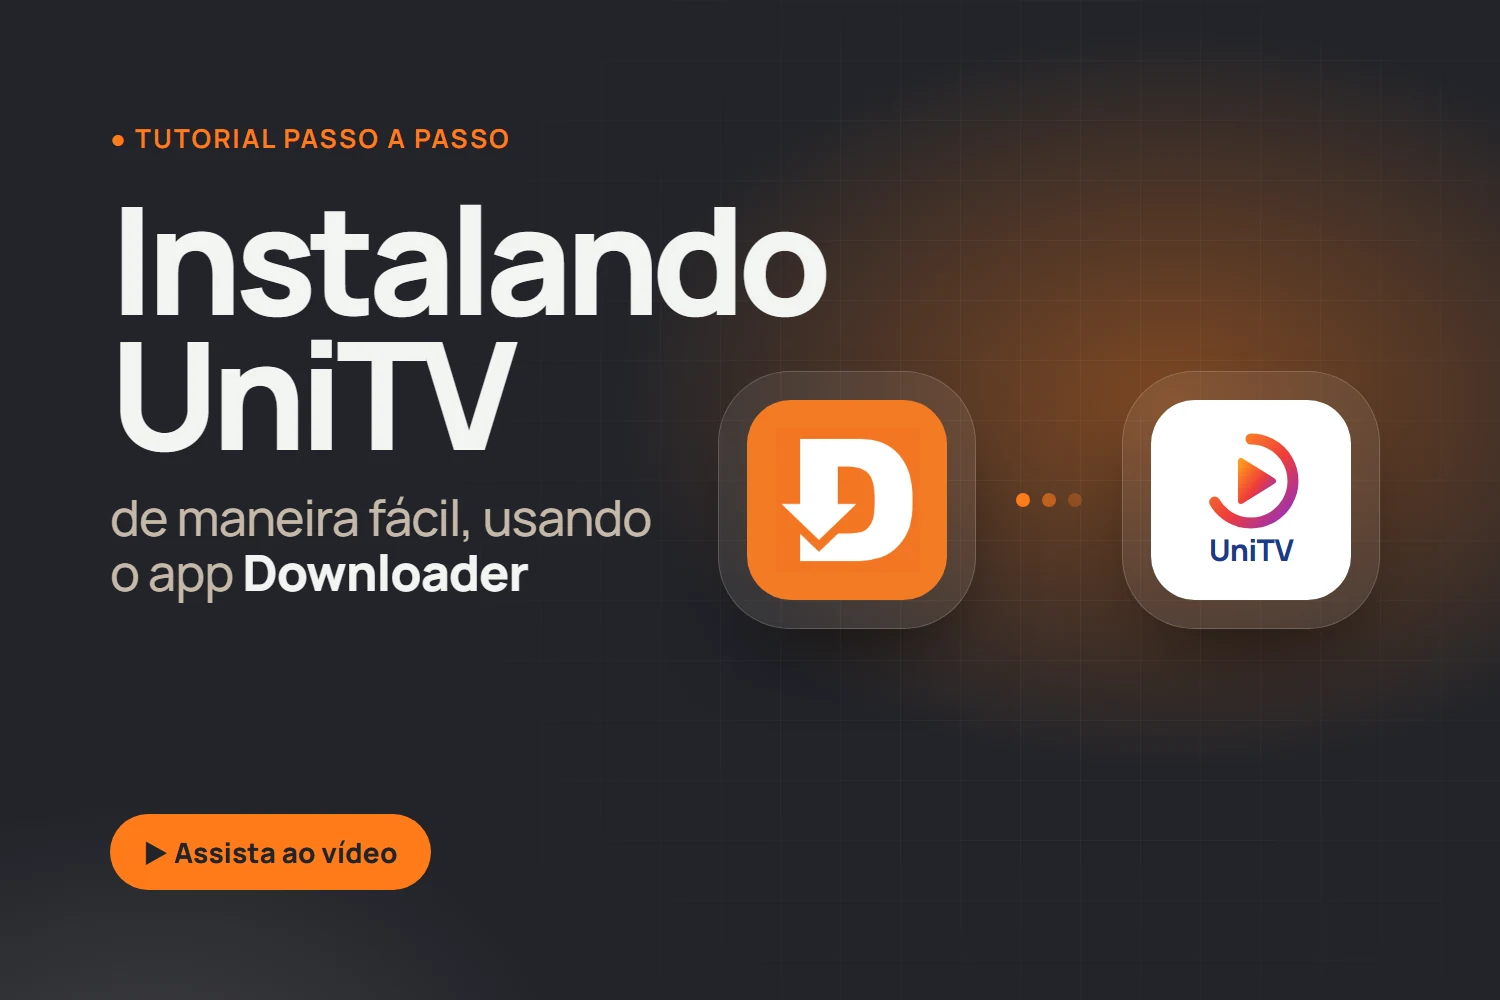
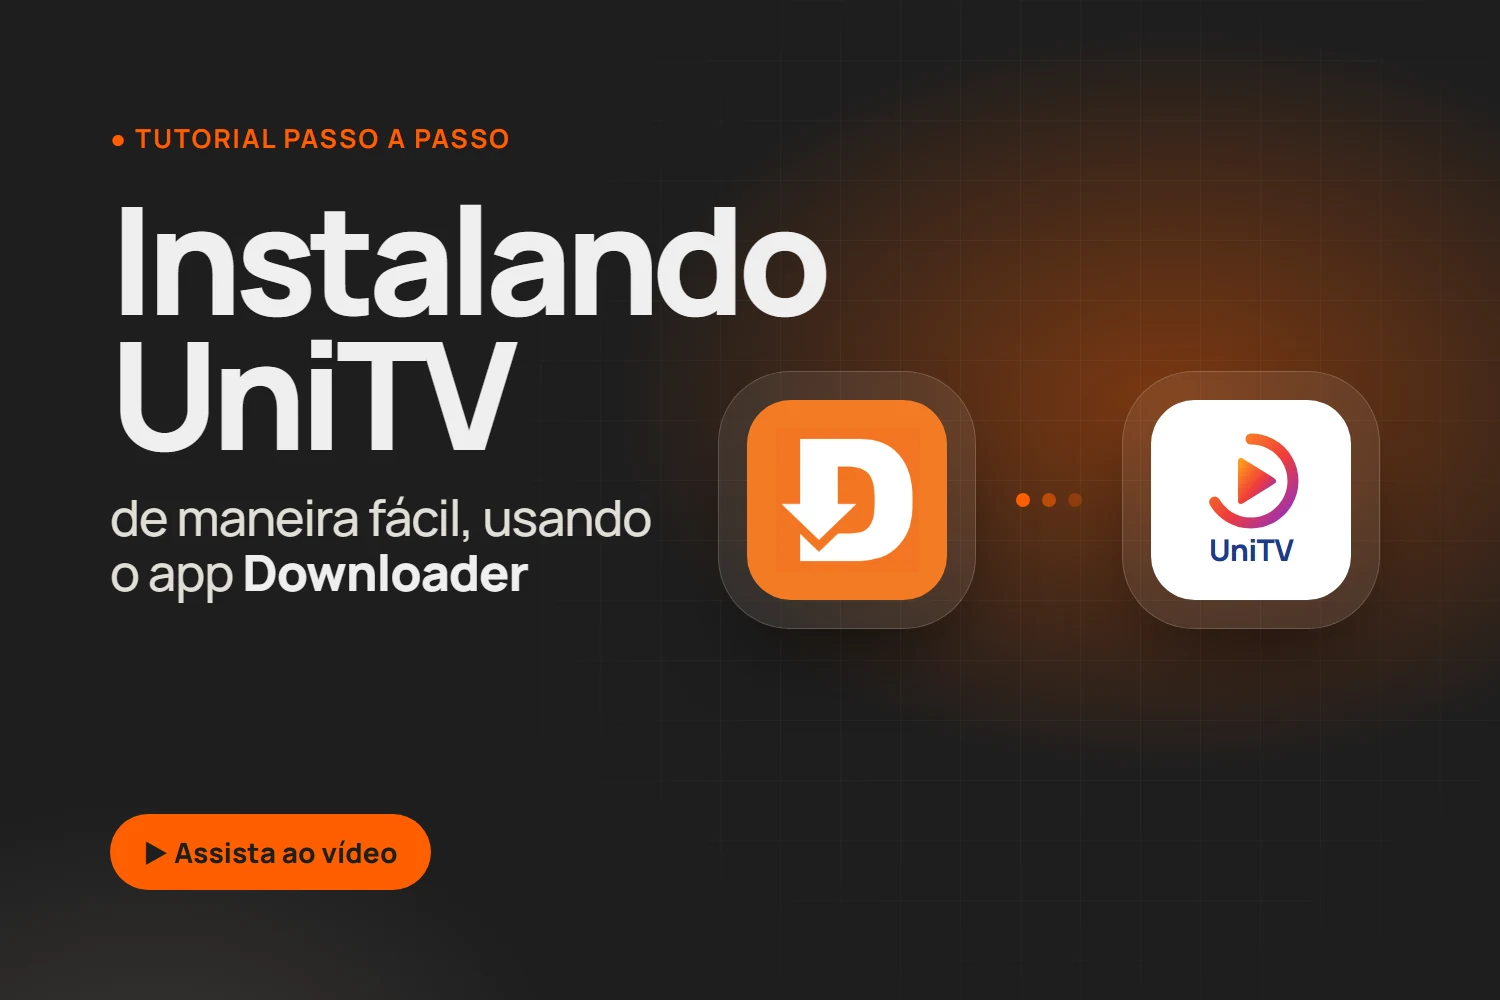
Nova paleta de cores

Changed region(s): [[0.0613, 0.496, 0.4293, 0.62], [0.0613, 0.806, 0.3067, 0.899], [0.092, 0.124, 0.3373, 0.155]]

diff --git a/app.jsx b/app.jsx
@@ -39,7 +39,7 @@ const NEWS = [
 const ARTICLES = [
   { title: 'Sinal e ruído no seu feed', img: 'assets/the-atacama-large-millimeter-array-alma-by.jpg', alt: 'Antenas do observatório ALMA sob o céu estrelado do Atacama', tag: 'Guia', tone: 'bg-ink text-paper', big: true },
   { title: 'Seis ferramentas leves', tag: 'Produtividade', tone: 'bg-sand text-ink' },
-  { title: 'Privacidade sem paranoia', tag: 'Segurança', tone: 'bg-[#e4dccf] text-ink' },
+  { title: 'Privacidade sem paranoia', tag: 'Segurança', tone: 'bg-white text-ink' },
 ];
 
 const SOCIALS = [['Facebook', 'f'], ['X', 'X'], ['Instagram', 'ig']];
@@ -130,13 +130,13 @@ function News() {
                 <button key={k} ref={el => (refs.current[k] = el)} role="tab" id={'tab-' + k}
                   aria-selected={on} aria-controls="painel-noticia" tabIndex={on ? 0 : -1}
                   onClick={() => setI(k)}
-                  className={`cut-tl min-h-[88px] rounded-[14px] px-5 py-4 text-left text-lg font-semibold leading-snug transition duration-200 hover:translate-x-1 ${on ? 'bg-ink text-paper' : 'bg-[#e4dccf] text-ink hover:bg-sand'}`}>
+                  className={`cut-tl min-h-[88px] rounded-[14px] px-5 py-4 text-left text-lg font-semibold leading-snug transition duration-200 hover:translate-x-1 ${on ? 'bg-ink text-paper' : 'bg-white text-ink hover:bg-sand'}`}>
                   {x.tab}
                 </button>
               );
             })}
           </Reveal>
-          <Reveal delay={160} role="tabpanel" id="painel-noticia" aria-labelledby={'tab-' + i} className="bg-[#e4dccf]">
+          <Reveal delay={160} role="tabpanel" id="painel-noticia" aria-labelledby={'tab-' + i} className="bg-white">
             <div key={i} className="swap">
               {n.img && (
                 <img src={n.img} alt={n.alt} width="1920" height="1280" loading="lazy"
@@ -213,7 +213,7 @@ function Newsletter() {
     if (!/^\S+@\S+\.\S+$/.test(form.email)) { setErr('Digite um e-mail válido, como nome@dominio.com.'); return; }
     setDone(true);
   };
-  const field = 'min-h-[48px] w-full bg-paper px-4 text-base text-ink placeholder:text-[#55575c] focus:outline-none focus-visible:ring-2 focus-visible:ring-ink';
+  const field = 'min-h-[48px] w-full bg-paper px-4 text-base text-ink placeholder:text-[#5f5750] focus:outline-none focus-visible:ring-2 focus-visible:ring-ink';
   return (
     <section id="newsletter" className="bg-fox px-4 py-[clamp(72px,10vw,140px)] text-ink sm:px-8">
       <div className="mx-auto grid max-w-[1280px] gap-10 lg:grid-cols-[1fr_1fr] lg:gap-20">
@@ -234,7 +234,7 @@ function Newsletter() {
                   aria-invalid={!!err} aria-describedby={err ? 'erro-email' : undefined} className={field} />
                 {err && <span id="erro-email" role="alert" className="font-semibold">{err}</span>}
               </label>
-              <button type="submit" className="mt-2 inline-flex min-h-[52px] items-center justify-center bg-ink px-7 text-base font-bold text-paper transition duration-200 hover:bg-[#3a3d46] active:scale-[.98]">Assinar</button>
+              <button type="submit" className="mt-2 inline-flex min-h-[52px] items-center justify-center bg-ink px-7 text-base font-bold text-paper transition duration-200 hover:bg-[#3a3532] active:scale-[.98]">Assinar</button>
             </form>
           )}
         </Reveal>

diff --git a/assets/Publi/UniTV/capa-src/capa.html b/assets/Publi/UniTV/capa-src/capa.html
@@ -5,7 +5,7 @@
 <title>Capa UniTV</title>
 <link href="https://fonts.googleapis.com/css2?family=Manrope:wght@500;700;800&display=swap" rel="stylesheet">
 <style>
-  :root { --sand:#c5b9a8; --paper:#f2f4f2; --ink:#22242a; --fox:#ff7a1a; --foxdark:#e8650a; --beige:#e4dccf; }
+  :root { --sand:#e2ded7; --paper:#efefef; --ink:#1e1e1e; --fox:#ff5e00; --foxdark:#ea5800; --beige:#ffffff; --warm:#83786f; }
   * { box-sizing:border-box; margin:0; }
   html, body { width:1500px; height:1000px; overflow:hidden; background:var(--ink); }
   body { font-family:'Manrope', system-ui, sans-serif; -webkit-font-smoothing:antialiased; }
@@ -38,7 +38,7 @@
   #a .art svg.arrow { width:60px; height:120px; }
 
   /* B: escuro com brilho */
-  #b { background:radial-gradient(900px 600px at 78% 40%, rgba(255,122,26,.42), transparent 62%), radial-gradient(700px 500px at 10% 110%, rgba(197,185,168,.18), transparent 60%), var(--ink); }
+  #b { background:radial-gradient(900px 600px at 78% 40%, rgba(255,94,0,.42), transparent 62%), radial-gradient(700px 500px at 10% 110%, rgba(131,120,111,.28), transparent 60%), var(--ink); }
   #b .grid { position:absolute; inset:0; background-image:linear-gradient(rgba(242,244,242,.05) 1px, transparent 1px), linear-gradient(90deg, rgba(242,244,242,.05) 1px, transparent 1px); background-size:60px 60px; mask-image:radial-gradient(circle at 70% 45%, #000, transparent 70%); }
   #b .txt { position:absolute; left:110px; top:120px; width:720px; color:var(--paper); }
   #b .chip { color:var(--fox); }
@@ -98,7 +98,7 @@
   <div class="steps"><span>1 · Downloader</span><span>2 · Código</span><span>3 · UniTV</span></div>
   <div class="art">
     <div class="dl"></div>
-    <svg class="arrow" viewBox="0 0 60 120"><path d="M30 4v100M8 84l22 24 22-24" fill="none" stroke="#ff7a1a" stroke-width="8" stroke-linecap="round" stroke-linejoin="round" stroke-dasharray="1 0"/></svg>
+    <svg class="arrow" viewBox="0 0 60 120"><path d="M30 4v100M8 84l22 24 22-24" fill="none" stroke="#ff5e00" stroke-width="8" stroke-linecap="round" stroke-linejoin="round" stroke-dasharray="1 0"/></svg>
     <div class="uni"><div class="in"><svg><use href="#unimark"/></svg><b>UniTV</b></div></div>
   </div>
 </section>
@@ -128,7 +128,7 @@
   </div>
   <div class="row">
     <div class="dl"></div>
-    <svg viewBox="0 0 56 56"><path d="M6 28h40M32 12l16 16-16 16" fill="none" stroke="#22242a" stroke-width="7" stroke-linecap="round" stroke-linejoin="round"/></svg>
+    <svg viewBox="0 0 56 56"><path d="M6 28h40M32 12l16 16-16 16" fill="none" stroke="#1e1e1e" stroke-width="7" stroke-linecap="round" stroke-linejoin="round"/></svg>
     <div class="uni"><div class="in"><svg><use href="#unimark"/></svg><b>UniTV</b></div></div>
   </div>
   <div class="tv"><div class="screen">

diff --git a/styles.css b/styles.css
@@ -9,8 +9,8 @@ body { -webkit-tap-highlight-color: transparent; overflow-wrap: break-word; }
 a, button, input { touch-action: manipulation; }
 img { height: auto; }
 a { transition: color .15s; }
-a:hover { color: #a64500; }
-:focus-visible { outline: 3px solid #22242a; outline-offset: 3px; }
+a:hover { color: #b84300; }
+:focus-visible { outline: 3px solid #1e1e1e; outline-offset: 3px; }
 
 /* Entrada ao rolar: só esconde se o JS rodou; transform e opacity apenas */
 .js .rv { opacity: 0; transform: translateY(24px);

diff --git a/downloader.html b/downloader.html
@@ -13,7 +13,7 @@
     future: { hoverOnlyWhenSupported: true },
     theme: { extend: {
       fontFamily: { sans: ['Manrope', 'system-ui', 'sans-serif'] },
-      colors: { sand: '#c5b9a8', paper: '#f2f4f2', ink: '#22242a', fox: '#ff7a1a', foxdark: '#e8650a' }
+      colors: { sand: '#e2ded7', paper: '#efefef', ink: '#1e1e1e', fox: '#ff5e00', foxdark: '#ea5800', warm: '#83786f' }
     } }
   }
 </script>

diff --git a/index.html b/index.html
@@ -13,7 +13,7 @@
     future: { hoverOnlyWhenSupported: true },
     theme: { extend: {
       fontFamily: { sans: ['Manrope', 'system-ui', 'sans-serif'] },
-      colors: { sand: '#c5b9a8', paper: '#f2f4f2', ink: '#22242a', fox: '#ff7a1a', foxdark: '#e8650a' }
+      colors: { sand: '#e2ded7', paper: '#efefef', ink: '#1e1e1e', fox: '#ff5e00', foxdark: '#ea5800', warm: '#83786f' }
     } }
   }
 </script>

diff --git a/unitv.html b/unitv.html
@@ -13,7 +13,7 @@
     future: { hoverOnlyWhenSupported: true },
     theme: { extend: {
       fontFamily: { sans: ['Manrope', 'system-ui', 'sans-serif'] },
-      colors: { sand: '#c5b9a8', paper: '#f2f4f2', ink: '#22242a', fox: '#ff7a1a', foxdark: '#e8650a' }
+      colors: { sand: '#e2ded7', paper: '#efefef', ink: '#1e1e1e', fox: '#ff5e00', foxdark: '#ea5800', warm: '#83786f' }
     } }
   }
 </script>
